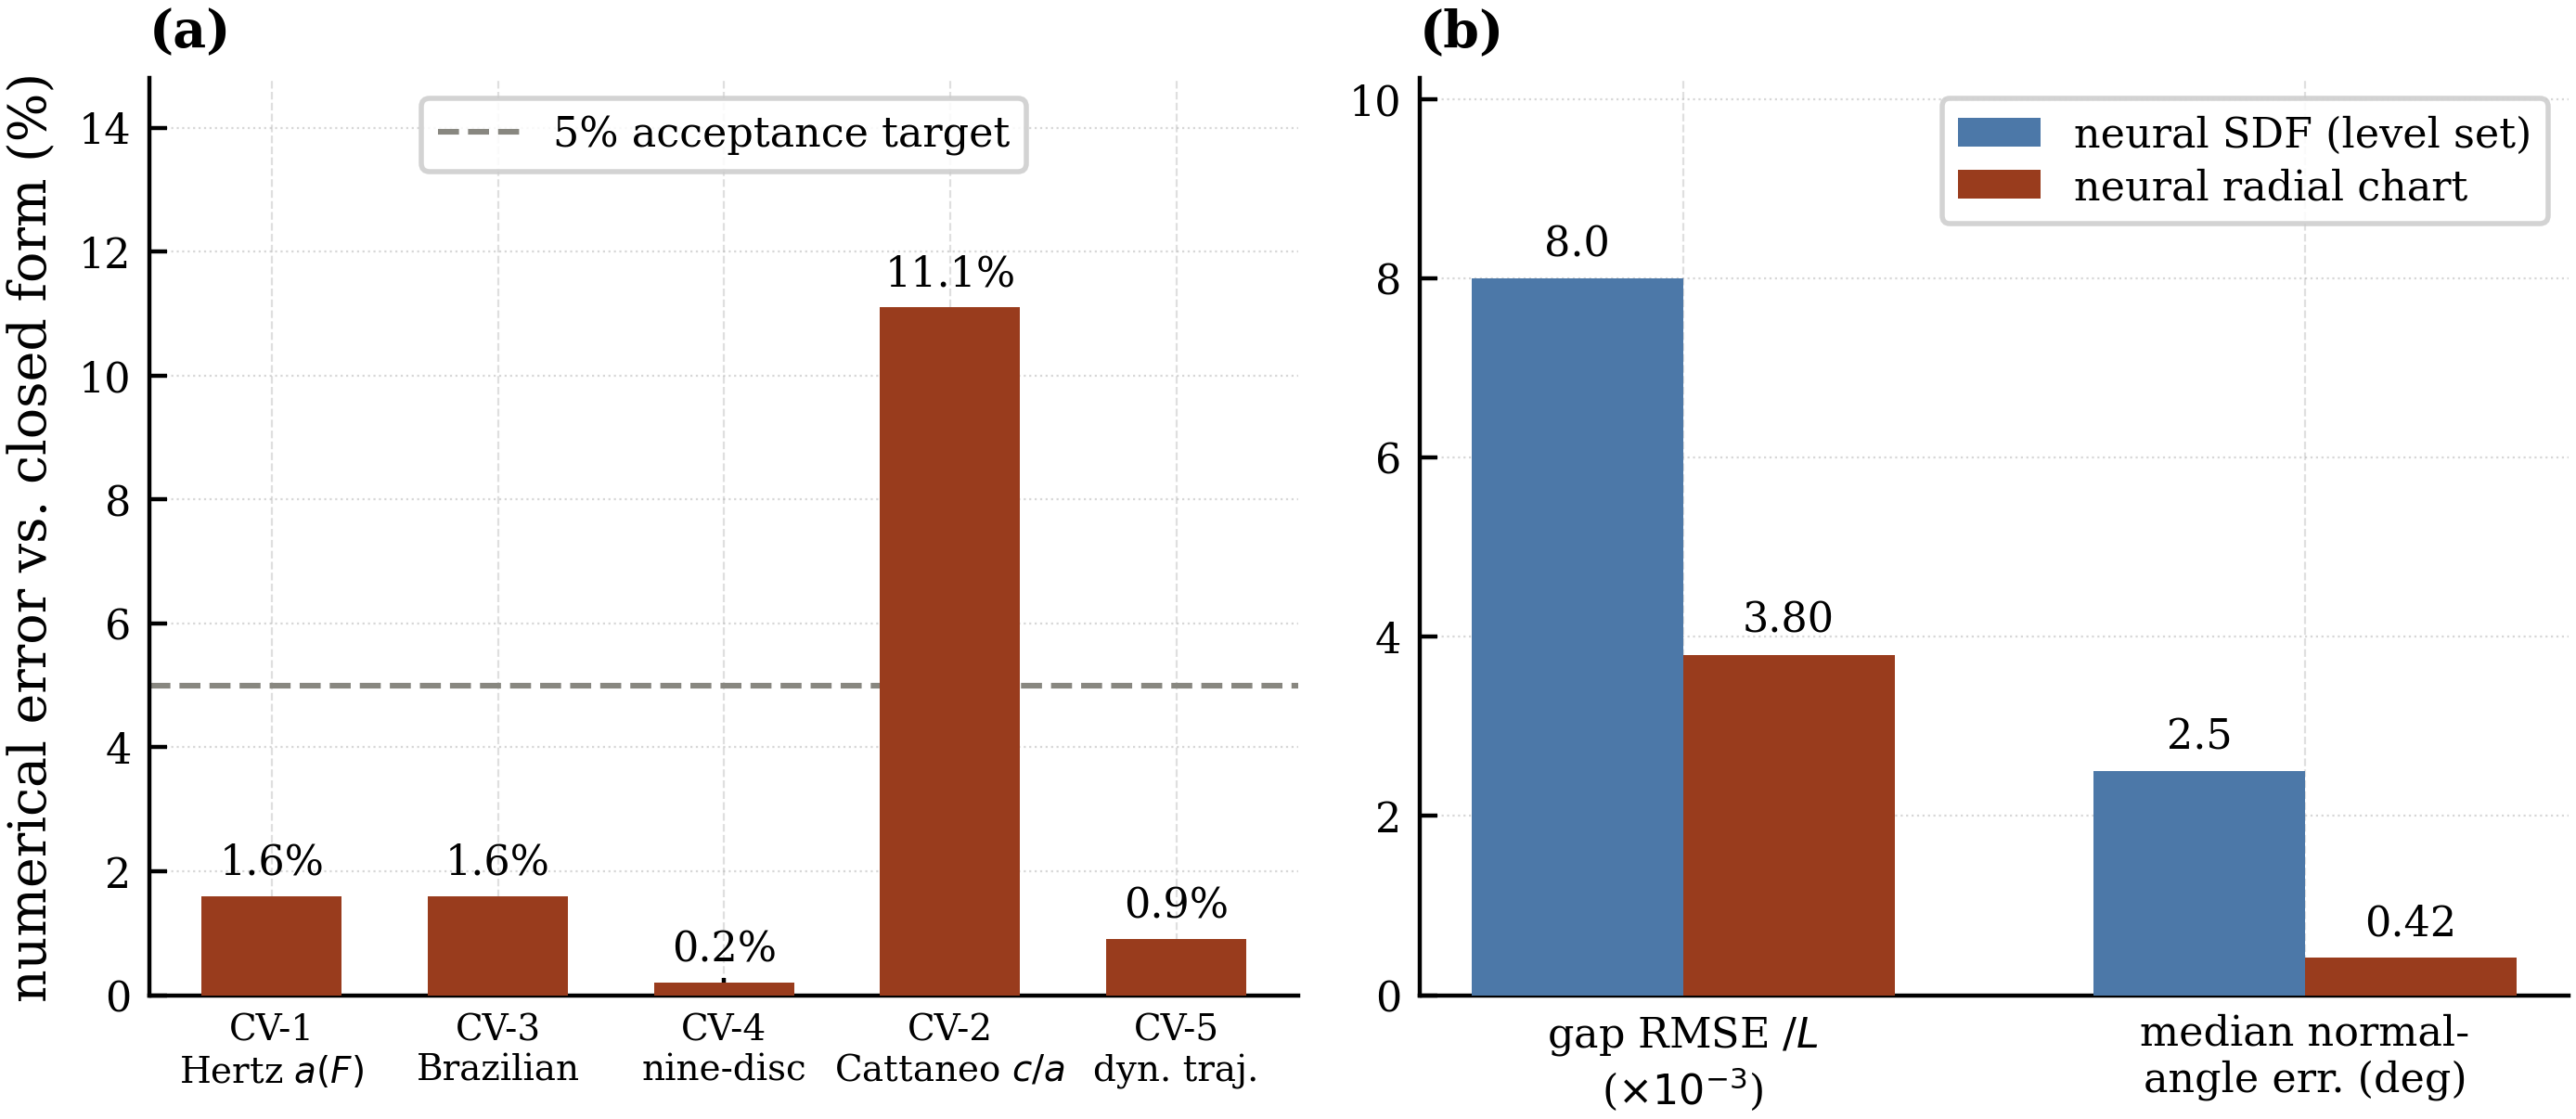
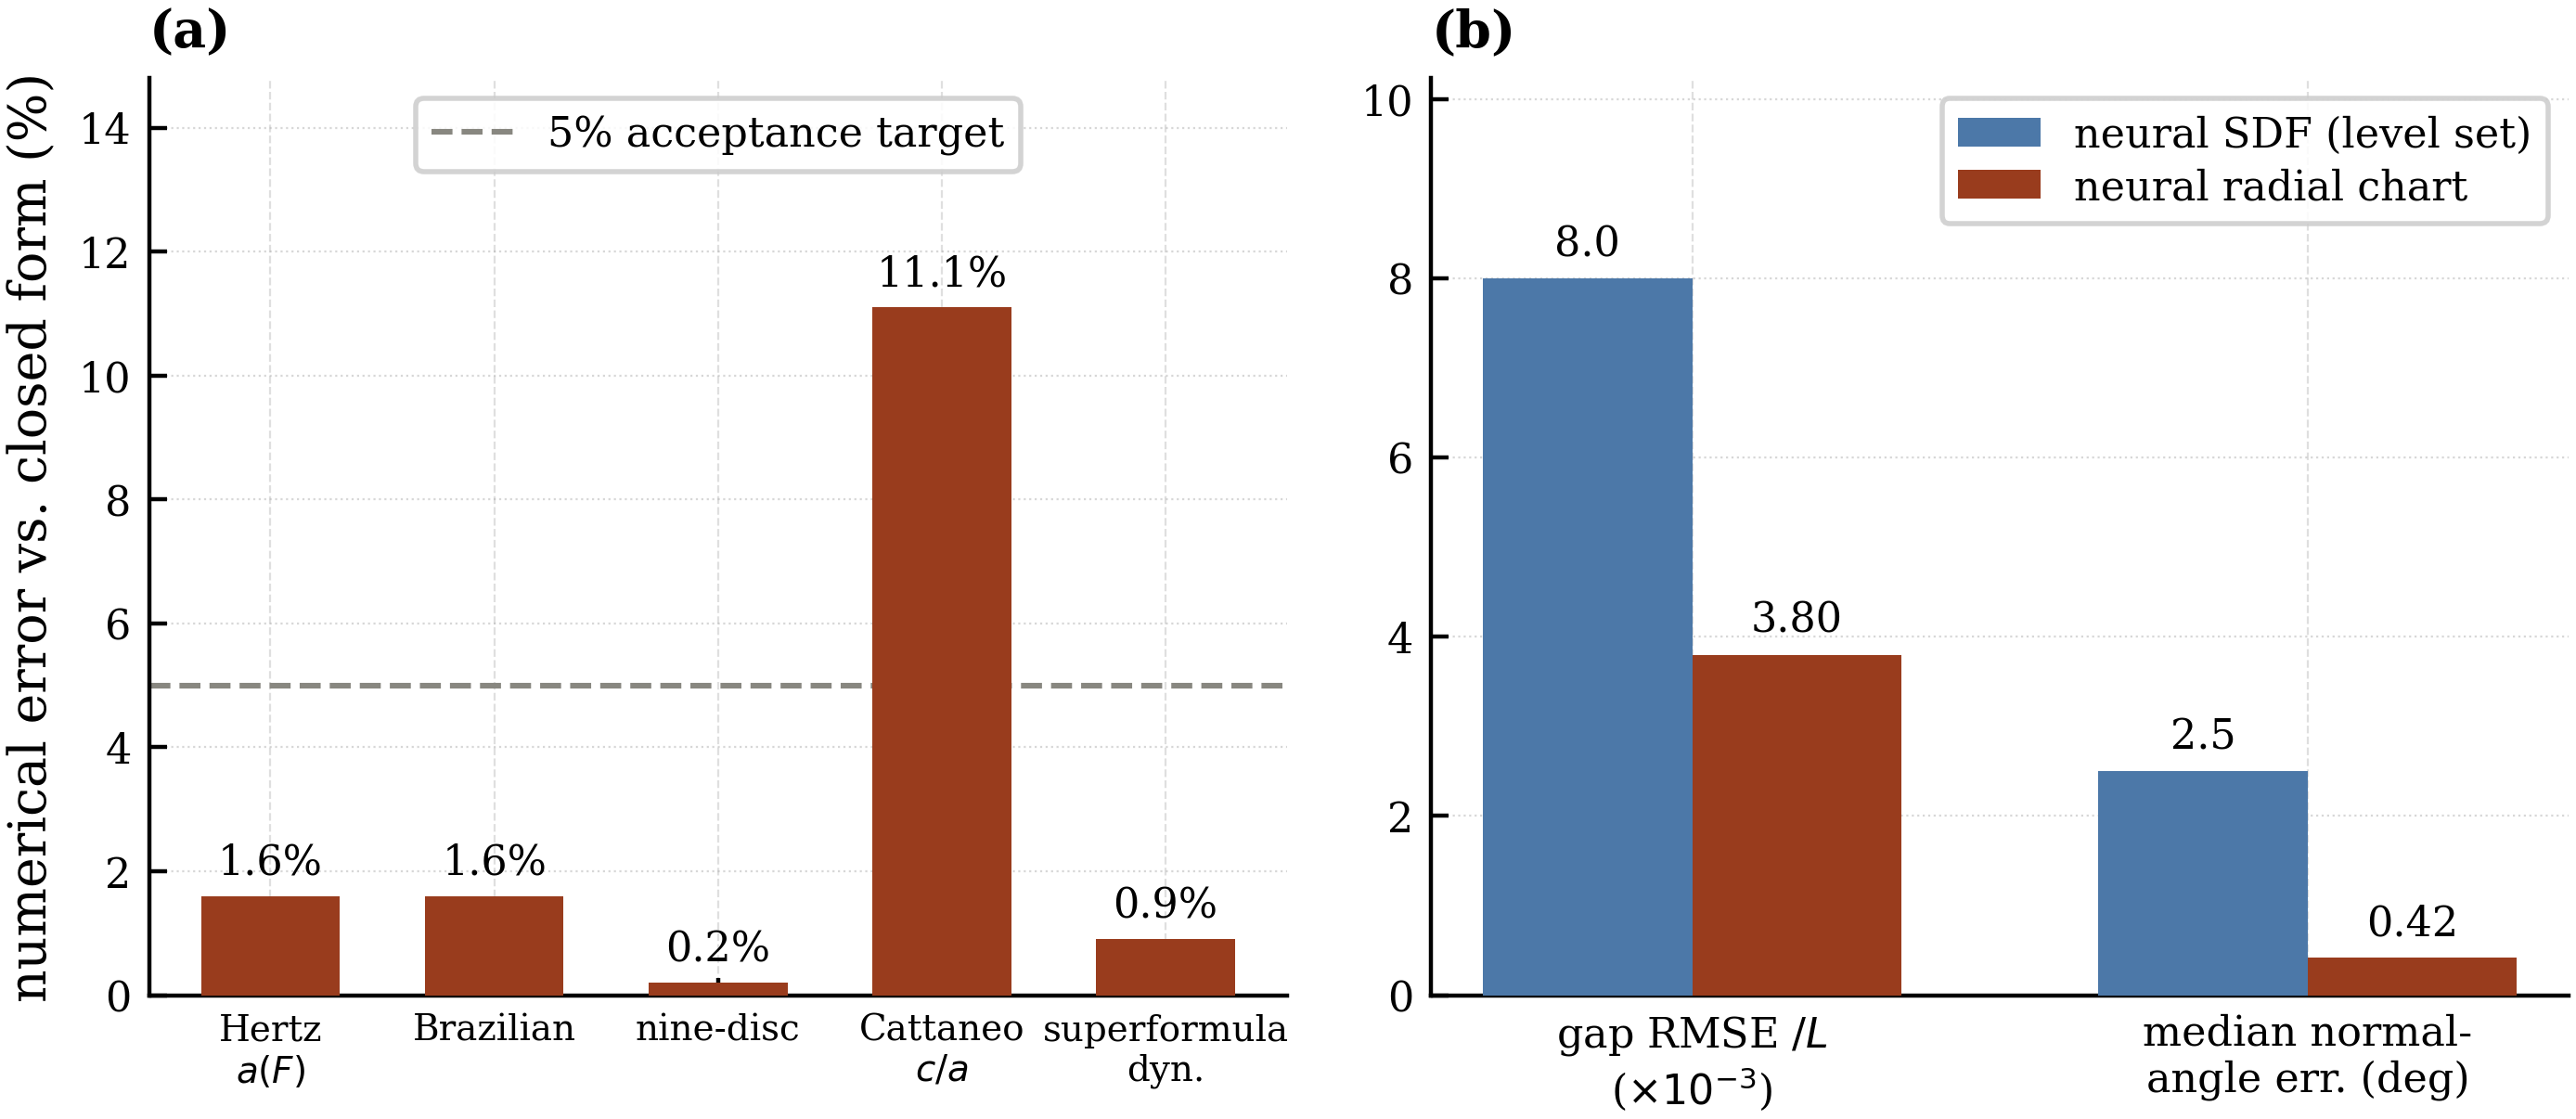
figures: relabel the verification-summary bars by example name (no CV-N)

diff --git a/postprocessing/plot_numerical_cv_summary.py b/postprocessing/plot_numerical_cv_summary.py
@@ -46,8 +46,8 @@ def main():
 
     # Panel A: L1 numerical error per benchmark (% vs closed form). Falls back to the
     # documented measured values when runs/*/metrics.json are absent (gitignored).
-    labels = ["CV-1\nHertz $a(F)$", "CV-3\nBrazilian", "CV-4\nnine-disc",
-              "CV-2\nCattaneo $c/a$", "CV-5\ndyn. traj."]
+    labels = ["Hertz\n$a(F)$", "Brazilian", "nine-disc",
+              "Cattaneo\n$c/a$", "superformula\ndyn."]
     vals = [cv1["a_relerr"] * 100 if cv1 else 1.6,
             cv3["center_sxx_relerr"] * 100 if cv3 else 1.6,
             cv4["sxx_relerr"] * 100 if cv4 else 0.2,